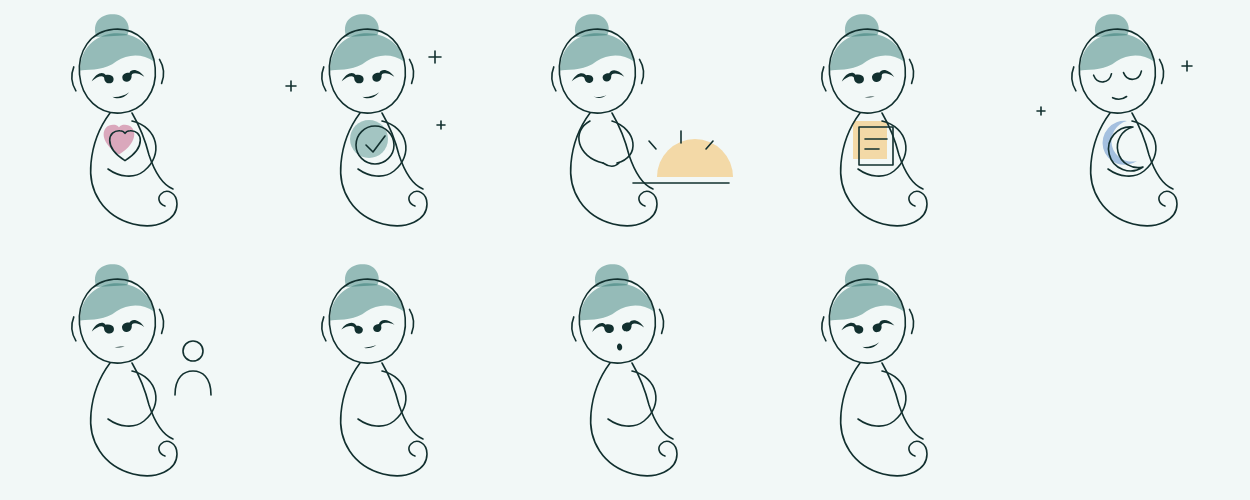
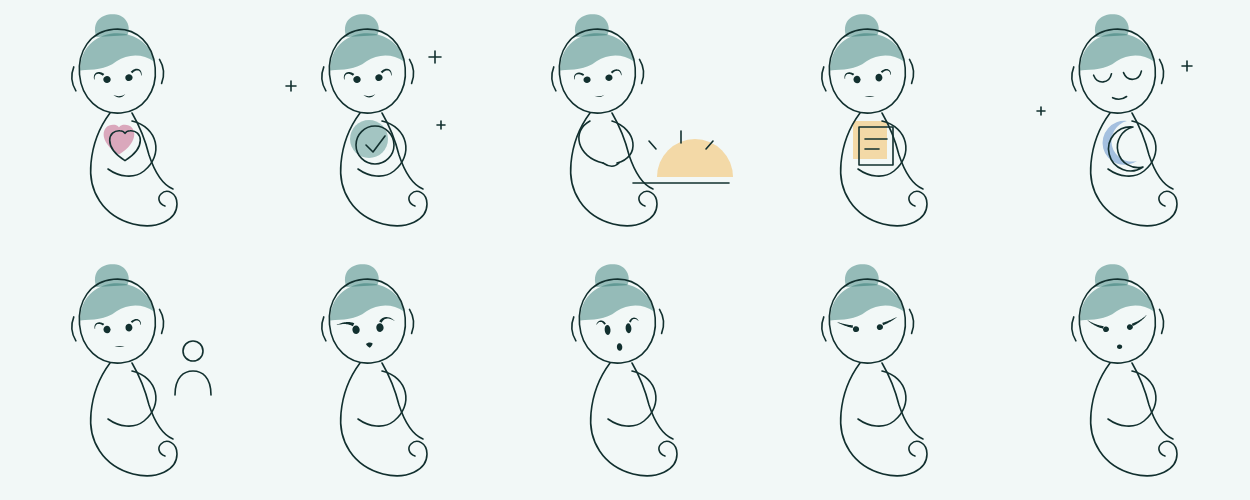
Illustration: eyes redrawn from Surya's hand sketches (dot + brush-flick tail, five faces), cleaned of wobble
Claude-Session: https://claude.ai/code/session_01JtwwLxtQC1tkxhTDz3rMgK

diff --git a/design/illustrations/ill6.py b/design/illustrations/ill6.py
@@ -21,40 +21,55 @@ BODY="M99 102C90 114 82 130 80 152C77 180 92 205 122 213C146 219 166 209 166 193
 BODY2="M121 102C128 114 134 128 138 144C144 162 152 174 162 178"
 def L(x): return 220-x   # mirror about the head's centre line
 def pth(pts): return pts
-def solid_eye(h, mirror, droop=0):
-    """Eye and brow in one stroke: a round pupil near the nose whose comma tail arcs up and out over it like an eyebrow."""
-    X=(lambda x: L(x)) if mirror else (lambda x: x)
-    r=3.0+h*.2; cx=101.0; cy=67.2; lift=60.6-h*.1
-    return (f"M{X(83.5)} 67.2C{X(89)} {lift-.6:.1f} {X(96)} {lift-1.2:.1f} {X(cx-r*.6)} {cy-r*.95:.1f}"
-            f"C{X(cx+r*.2)} {cy-r*1.05:.1f} {X(cx+r)} {cy-r*.6:.1f} {X(cx+r)} {cy:.1f}"
-            f"C{X(cx+r)} {cy+r*.7:.1f} {X(cx+r*.55)} {cy+r:.1f} {X(cx)} {cy+r:.1f}"
-            f"C{X(cx-r*.75)} {cy+r:.1f} {X(cx-r*1.05)} {cy+r*.3:.1f} {X(cx-r*1.05)} {cy-r*.1:.1f}"
-            f"C{X(97)} {lift+2.4:.1f} {X(90)} {lift+2.6:.1f} {X(83.5)} 67.2Z")
-def solid_brow(yo,yi,mirror,t=2.4,arch=4):
-    X=(lambda x: L(x)) if mirror else (lambda x: x)
-    return (f"M{X(85)} {yo}C{X(91)} {yo-arch} {X(98)} {yi-arch} {X(104)} {yi}"
-            f"L{X(104)} {yi+t}C{X(98)} {yi-arch+t*.6:.1f} {X(91)} {yo-arch+t*.5:.1f} {X(85)} {yo}Z")
-MOUTHS={"smile":"M103 84C107 88 114 88 118 83C114 86.4 107 86.4 103 84Z","smirk":"M103 85C107 88.4 114 88 120 82C114 85.6 107 86.2 103 85Z",
-        "soft":"M104 85C108 87.6 113 87.6 117 84.6C113 86.4 108 86.4 104 85Z","flat":"M104 86.5C109 85.6 113 85.8 117 84.4C113 86.8 109 87.4 104 86.5Z",
-        "line":"M105 86C109 85.4 112 85.4 115 86C112 86.6 109 86.6 105 86Z"}
-TILT={"stern":6,"worried":-7,"wry":2,"tender":-3,"serene":-3,"watchful":-4}
-def face_parts(op,dx,dy,b,mouth,r=3.4,tilt=0):
-    """No eyebrows (D-30): expression = eye openness, eye tilt, mouth."""
-    h=2+op*7
-    parts=[rot(solid_eye(h,False),tilt,96,65),rot(solid_eye(h,True),-tilt,124,65)]
-    parts.append(ell(110,86,2.6,3.6) if mouth=="oh" else MOUTHS[mouth])
-    return [],parts
-FACES={ # open, look dx, look dy, brows (outerL,innerL,outerR,innerR), mouth
- "serene": (.55,0,1.2,(54,55,54,55),"soft"),
- "tender": (.8,-1.2,1,(54,56,54,56),"smirk"),
- "wry":    (.7,1.2,0,(52,52,56,57),"smirk"),
- "stern":  (.45,0,0,(50,57,50,57),"flat"),
- "worried":(.85,0,.5,(57,51,57,51),"oh"),
- "watchful":(1,0,-1.5,(55,54,55,54),"line"),
+def bez(p0,c1,c2,p3,t):
+    u=1-t; return (u**3*p0[0]+3*u*u*t*c1[0]+3*u*t*t*c2[0]+t**3*p3[0], u**3*p0[1]+3*u*u*t*c1[1]+3*u*t*t*c2[1]+t**3*p3[1])
+def dbez(p0,c1,c2,p3,t):
+    u=1-t; return (3*u*u*(c1[0]-p0[0])+6*u*t*(c2[0]-c1[0])+3*t*t*(p3[0]-c2[0]), 3*u*u*(c1[1]-p0[1])+6*u*t*(c2[1]-c1[1])+3*t*t*(p3[1]-c2[1]))
+def brush(p0,c1,c2,p3,w0,w1=.15,n=26):
+    """A brush flick: a cubic centre-line that tapers from w0 to w1, as a closed filled outline."""
+    L_,R_=[],[]
+    for i in range(n+1):
+        t=i/n; x,y=bez(p0,c1,c2,p3,t); dx,dy=dbez(p0,c1,c2,p3,t); m=math.hypot(dx,dy) or 1
+        nx,ny=-dy/m,dx/m; w=(w0*(1-t)**.85+w1*t)/2
+        L_.append((x+nx*w,y+ny*w)); R_.append((x-nx*w,y-ny*w))
+    pts=L_+R_[::-1]
+    return "M"+"L".join(f"{x:.2f} {y:.2f}" for x,y in pts)+"Z"
+def mir(pt): return (L(pt[0]),pt[1])
+def dot(cx,cy,rx,ry,mirror): return ell(L(cx) if mirror else cx,cy,rx,ry)
+def tail(spec,mirror):
+    P=[(mir(p) if mirror else p) for p in spec[:4]]
+    return brush(P[0],P[1],P[2],P[3],spec[4],spec[5] if len(spec)>5 else .15)
+# Each face is a pair of brush-drawn eyes (a dot plus a flick tail) and a tiny mouth, after the hand sketches (D-31).
+# eye = (dot cx,cy,rx,ry), tail = (p0,c1,c2,p3,w0[,w1]); left eye drawn, right = mirror unless given.
+EYES={
+ # 1 lofty / stern: a long flat sweep on one side, a short hook on the other
+ "stern":   dict(L=((98,67.5,3.7,4.3),((96,62.4),(91,59.6),(86,59.4),(79,61.2),3.4)), R=((122,67.5,3.7,4.3),((123,62),(126,57.2),(132,57.2),(137,62),2.8)), mouth="drop"),
+ # 2 wry: small dots, tails rising outward
+ "wry":     dict(L=((98,67,3.1,2.9),((95,64.2),(90,63),(85,61),(80,58.4),2.6)), R=None, mouth="dash"),
+ # 3 firm: steeper V
+ "firm":    dict(L=((98,67,3.0,2.8),((95.5,65),(90,63.4),(85,60.6),(80.5,56.6),2.6)), R=None, mouth="blob"),
+ # 4 playful / kind: dots cupped by a curling hook
+ "tender":  dict(L=((99,67.4,3.7,3.4),((96,62.6),(91,57.8),(85.5,60.4),(86.5,66.4),2.2,.5)), R=None, mouth="smile"),
+ "serene":  dict(L=((99,67.6,3.6,3.2),((96,62.8),(91,58.6),(86,60.8),(86.5,66.2),2.0,.5)), R=None, mouth="soft"),
+ "watchful":dict(L=((99,67.4,3.5,3.8),((96,62.4),(91.5,58.4),(86.5,60.4),(87,65.6),2.0,.5)), R=None, mouth="line"),
+ # 5 wide-eyed: tall oval pupils with a small hook above
+ "worried": dict(L=((99.5,68,2.9,5.0),((97.5,62),(95.5,57.4),(91,57.6),(89,61.6),2.0,.4)), R=None, mouth="oh"),
 }
+MOUTHS={"smile":"M104 83.5C108 87.4 112 87.4 116 83.5C112 85.6 108 85.6 104 83.5Z","soft":"M105 84.2C108.5 86.6 111.5 86.6 115 84.2C111.5 85.6 108.5 85.6 105 84.2Z",
+        "dash":"M105.5 85.5H114.5L114.5 86.4H105.5Z","line":"M105 85.5C108 85 112 85 115 85.5C112 86.1 108 86.1 105 85.5Z",
+        "blob":ell(110,85.6,2.6,2.2),"drop":"M106.6 82.6C108.4 81 111.6 81 113.4 82.6C112.6 84.6 111.4 85.8 110 86.6C108.6 85.8 107.4 84.6 106.6 82.6Z",
+        "oh":ell(110,86,2.7,3.8)}
+def face_parts(kind):
+    E=EYES[kind]; parts=[]
+    (dx,dy,rx,ry),tl=E["L"]; parts+= [dot(dx,dy,rx,ry,False),tail(tl,False)]
+    R=E["R"]
+    if R is None: parts+=[dot(dx,dy,rx,ry,True),tail(tl,True)]
+    else:
+        (rdx,rdy,rrx,rry),rtl=R; parts+=[ell(rdx,rdy,rrx,rry),brush(rtl[0],rtl[1],rtl[2],rtl[3],rtl[4],.15)]
+    parts.append(MOUTHS[E["mouth"]])
+    return [],parts
 def eyes(kind):
-    if kind in FACES:
-        op,dx,dy,b,m=FACES[kind]; return face_parts(op,dx,dy,b,m,tilt=TILT.get(kind,0))
+    if kind in EYES: return face_parts(kind)
     if kind=="happy":
         return ["M86 68C89 57 101 57 104 68","M116 68C119 57 131 57 134 68","M86 49C91 45 100 45 104 49","M134 49C129 45 120 45 116 49","M99 83C107 92 113 92 121 83"],[]
     if kind=="sleep":
@@ -82,7 +97,7 @@ scene("blank_page","#F5A524","watchful",[PG,"M104 128H126","M104 138H118"],[PG])
 MN="M122 116A22 22 0 1 0 132 156A17 17 0 0 1 122 116Z"
 scene("quiet_day","#2563B8","sleep",[MN],[MN],extra=["M176 50V60M171 55H181","M30 96V104M26 100H34"])
 scene("no_one_yet","#2563B8","watchful",[],[],extra=[circ(182,90,10),"M164 134C164 116 173 110 182 110C191 110 200 116 200 134"])
-for k in ("stern","worried","wry"): scene("face_"+k,"#B3265B",k,[],[])
+for k in ("stern","worried","wry","firm"): scene("face_"+k,"#B3265B",k,[],[])
 json.dump(S,open("scenes6.json","w"))
 def svg(names,SW=1.6,cols=5):
     out=""

diff --git a/spec/06-design-language.md b/spec/06-design-language.md
@@ -166,7 +166,7 @@ Quiet luxury. Rolls-Royce restraint, Tesla minimalism: few things, each one perf
 
 **Hero rule (D-28).** Every screen has one hero and it owns the screen. It is centred, has at least 40 px of air on every side, and nothing else competes with it. Today's hero is the Dial: a 3 px hairline ring that fills as the deadline nears (24 h window), calm teal, berry in the last hour, with the countdown in Sora ExtraLight inside it. Evening's hero is the serif line "Phone down."
 
-**Illustration language (D-29).** One character, the robot mum: slim head with a bun and a teal hair cap, soft eyes with a highlight dot, ear lights, eyes drawn as a comma whose tail is the brow (D-30), and one long sweep of a body that tapers into a curled tail (no legs). She cradles the scene object in one arm. One fine uniform stroke (1.6 on a 240 grid), round caps, no fills on her. Each scene adds one concept fill in a single accent at 38 % (sun = amber, heart = berry, moon = blue), and only when that object is the idea. Scenes: clear sky, all kept, nothing owed, no one yet, blank page, quiet day. Used for empty states and celebrations only, never as decoration. Source: `design/illustrations/ill6.py`; the app draws a line layer in ink and a fill layer in the accent, so dark mode needs nothing extra.
+**Illustration language (D-29).** One character, the robot mum: slim head with a bun and a teal hair cap, soft eyes with a highlight dot, ear lights, eyes drawn as brush flicks: a dot plus a tail that is the brow, after Surya's hand sketches (D-31), and one long sweep of a body that tapers into a curled tail (no legs). She cradles the scene object in one arm. One fine uniform stroke (1.6 on a 240 grid), round caps, no fills on her. Each scene adds one concept fill in a single accent at 38 % (sun = amber, heart = berry, moon = blue), and only when that object is the idea. Scenes: clear sky, all kept, nothing owed, no one yet, blank page, quiet day. Used for empty states and celebrations only, never as decoration. Source: `design/illustrations/ill6.py`; the app draws a line layer in ink and a fill layer in the accent, so dark mode needs nothing extra.
 
 **Serif.** Short headings, empty-state lines, celebrations and completions. Never body, never buttons, never numbers.
 
